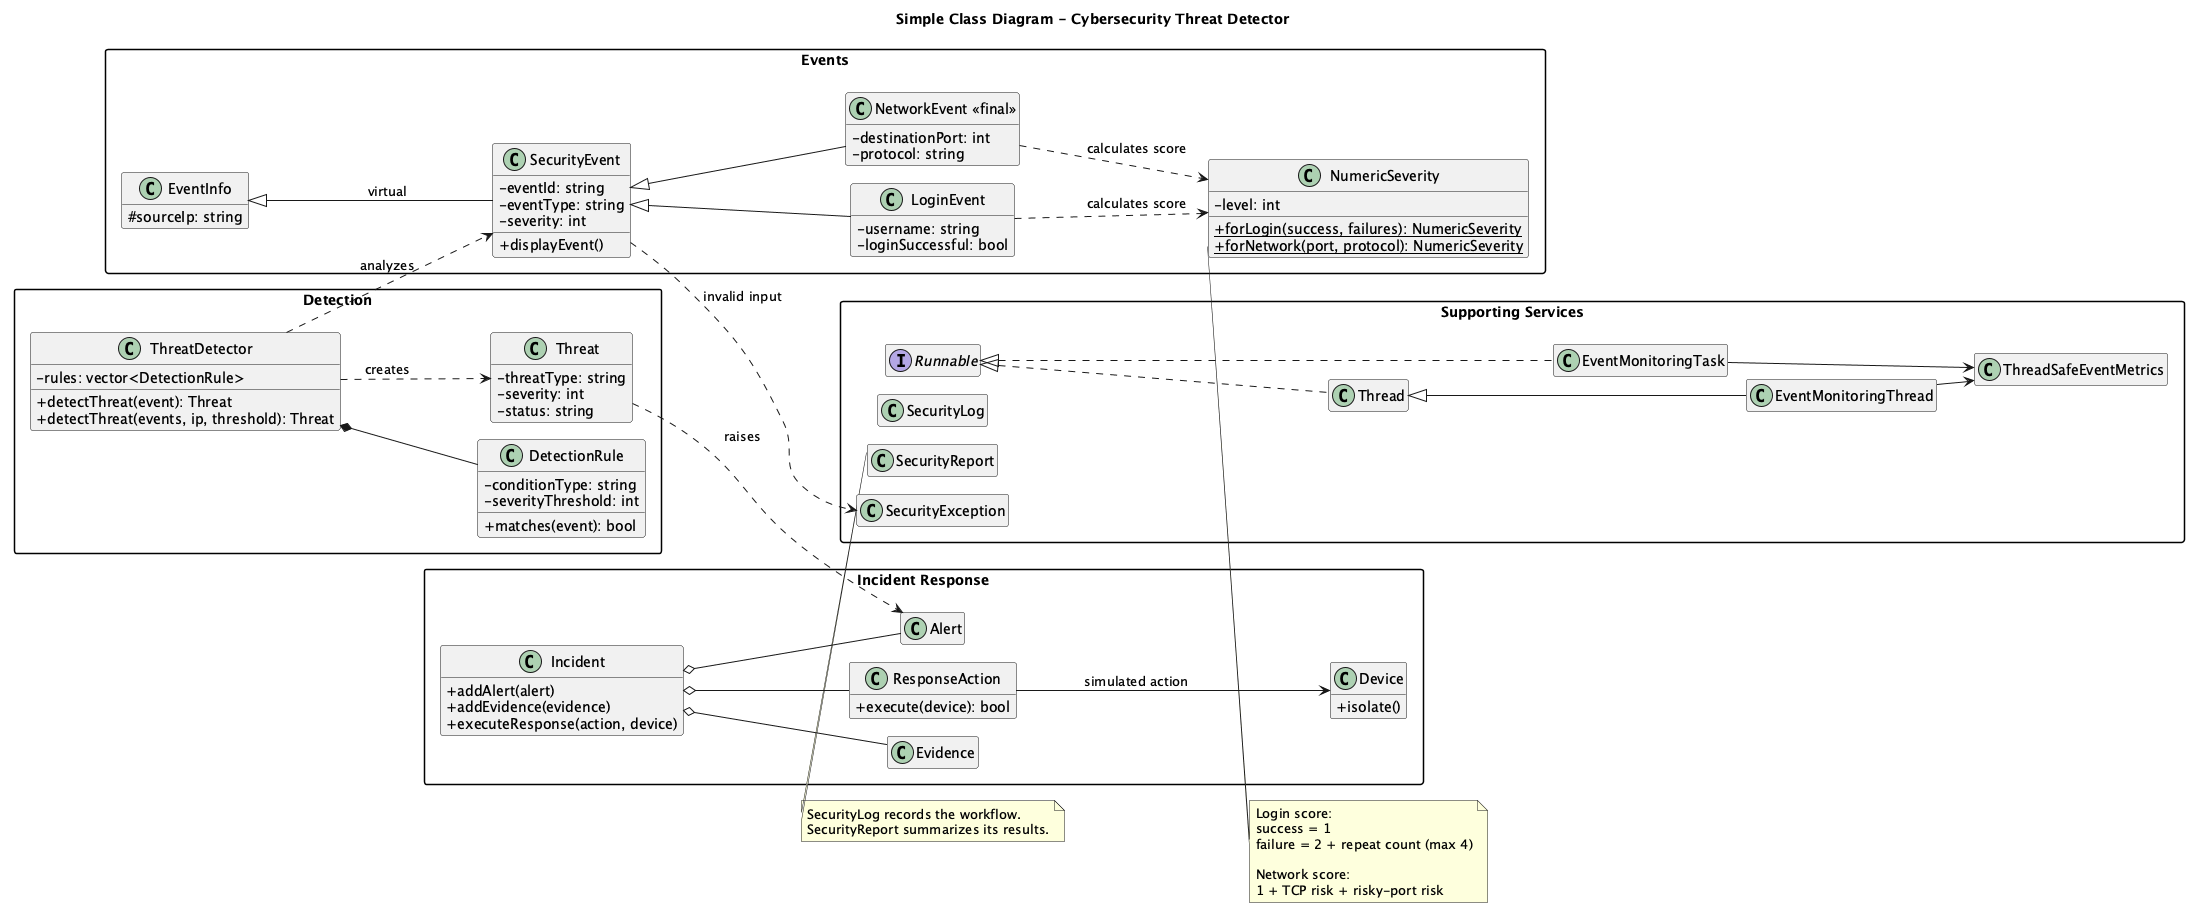
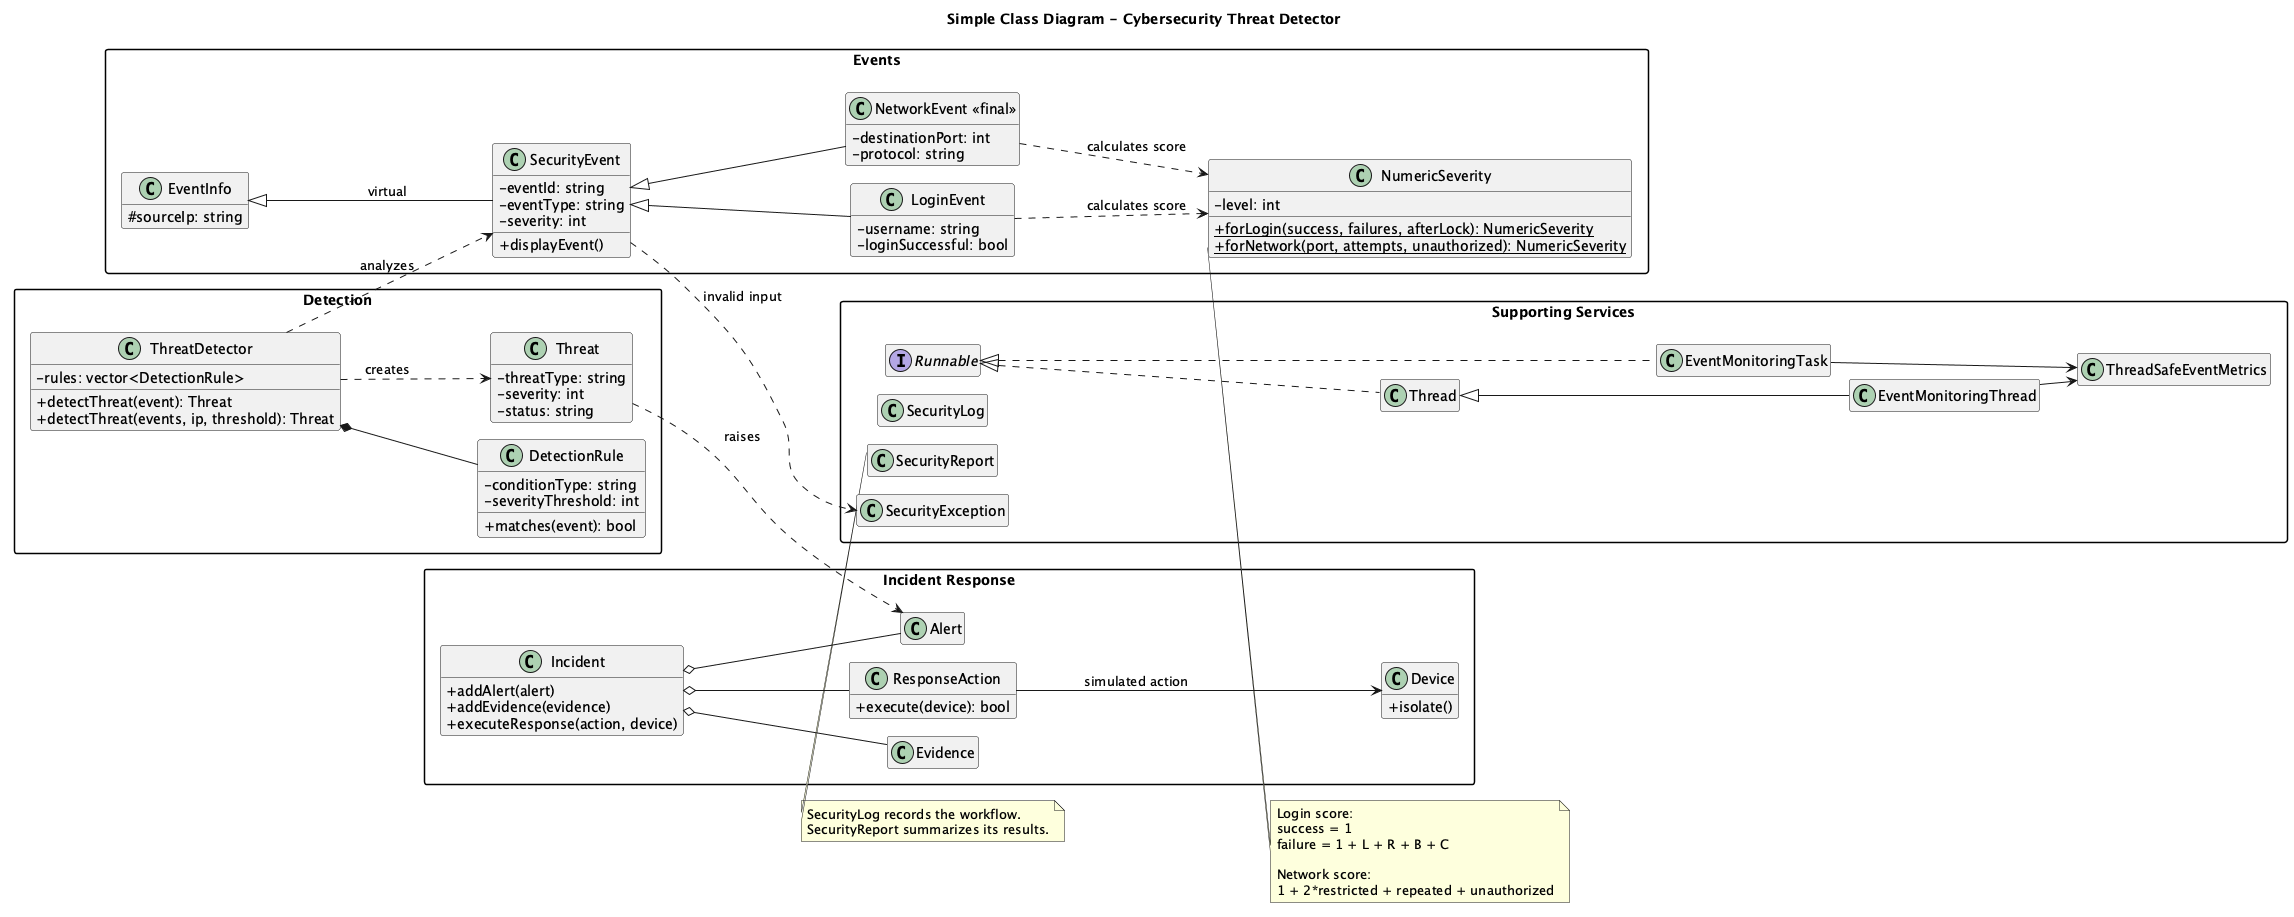
Implement behavior-based login and network severity formulas

diff --git a/frontend/index.html b/frontend/index.html
@@ -317,9 +317,11 @@
           </div>
         </fieldset>
         <div class="field">
-          <label for="failedAttempts">Recent failed attempts</label>
+          <label for="failedAttempts">Failed attempts in simulated last 5 minutes</label>
           <input id="failedAttempts" name="failedAttempts" type="number" min="1" max="10" value="3" required inputmode="numeric" />
         </div>
+        <fieldset><legend>Account lock</legend><div class="radio-row"><label><input type="checkbox" name="afterLock" /> Attempt continued after account lock (requires 5+ failures)</label></div></fieldset>
+        <p class="portal-help">Login score = 1 + failed login + 3+ failures + 5+ failures + attempt after lock. Each true condition adds 1. Successful login = 1. Counts describe the same username and source IP in a simulated 5-minute window.</p>
       </div>
 
       <div id="networkFields" class="portal-fields" hidden>
@@ -334,7 +336,9 @@
             <label><input type="radio" name="protocol" value="UDP" disabled /> UDP</label>
           </div>
         </fieldset>
-        <p class="portal-help"><strong>Network guide:</strong> TCP is reliable and connection-based; UDP is faster and connectionless. Ports <strong>22 (SSH)</strong> and <strong>3389 (RDP)</strong> are risky in this simulation. Ports 80 (HTTP) and 443 (HTTPS) are normal examples.</p>
+        <div class="field"><label for="networkAttempts">Connections in simulated last 5 minutes</label><input id="networkAttempts" name="attempts" type="number" min="1" max="100" value="1" required disabled /></div>
+        <fieldset><legend>Simulated access policy</legend><div class="radio-row"><label><input type="checkbox" name="unauthorized" disabled /> Source is not permitted to access this service</label></div></fieldset>
+        <p class="portal-help">Network score = 1 + 2 × restricted port + repeated attempts + unauthorized access. Ports 22 (SSH) and 3389 (RDP) are restricted by this demo policy. Repeated = 3+ connections from the same IP to the same port in a simulated 5-minute window. TCP and UDP score equally.</p>
       </div>
 
       <div class="portal-actions">
@@ -559,6 +563,8 @@
       const failed = portalForm.elements.loginResult.value === "failed";
       portalForm.elements.failedAttempts.disabled = !failed;
       portalForm.elements.failedAttempts.required = failed;
+      portalForm.elements.afterLock.disabled = !failed;
+      if (!failed) portalForm.elements.afterLock.checked = false;
     }
   }
   portalForm.addEventListener("change", (event) => {
@@ -570,6 +576,8 @@
       const attempts = document.getElementById("failedAttempts");
       attempts.disabled = event.target.value === "success";
       attempts.required = event.target.value !== "success";
+      portalForm.elements.afterLock.disabled = event.target.value === "success";
+      if (event.target.value === "success") portalForm.elements.afterLock.checked = false;
     }
   });
 
@@ -586,9 +594,12 @@
       payload.username = values.get("username");
       payload.result = values.get("loginResult");
       payload.failedAttempts = payload.result === "failed" ? Number(values.get("failedAttempts")) : 0;
+      payload.afterLock = values.has("afterLock");
     } else {
       payload.port = Number(values.get("port"));
       payload.protocol = values.get("protocol");
+      payload.attempts = Number(values.get("attempts"));
+      payload.unauthorized = values.has("unauthorized");
     }
 
     portalSubmit.disabled = true;

diff --git a/tests/smoke_test.py b/tests/smoke_test.py
@@ -41,9 +41,10 @@ with tempfile.TemporaryDirectory() as directory:
     assert "UNKNOWN_ACTION" in outputs["response-failure"]
     assert "Synchronized events processed: 8" in outputs["high-volume"]
     assert "Severity Score  : 3 (calculated)" in outputs["full-demo"]
-    assert "Severity Score  : 4 (calculated)" in outputs["full-demo"]
-    assert "Risk Level  : HIGH (4)" in outputs["full-demo"]
-    assert "Risk Level  : CRITICAL (5)" in outputs["high-volume"]
+    assert "Severity Score  : 5 (calculated)" in outputs["full-demo"]
+    assert "Risk Level  : MEDIUM (3)" in outputs["full-demo"]
+    assert "Highest severity score  : 5" in outputs["full-demo"]
+    assert "Risk Level  : HIGH (4)" in outputs["high-volume"]
 
     invalid = subprocess.run(
         [binary, "not-allowed"], cwd=ROOT, capture_output=True, text=True
@@ -62,9 +63,9 @@ with tempfile.TemporaryDirectory() as directory:
     assert portal_login.returncode == 0, portal_login.stderr
     assert "Portal event accepted: incorrect login" in portal_login.stdout
     assert "Synchronized events processed: 1" in portal_login.stdout
-    assert "Severity Score  : 4 (calculated)" in portal_login.stdout
+    assert "Severity Score  : 3 (calculated)" in portal_login.stdout
     assert "Threats detected        : 1" in portal_login.stdout
-    assert "Highest severity score  : 4" in portal_login.stdout
+    assert "Highest severity score  : 3" in portal_login.stdout
 
     portal_success = subprocess.run(
         [
@@ -97,5 +98,23 @@ with tempfile.TemporaryDirectory() as directory:
     assert "Portal event accepted: UDP connection to port 443" in portal_network.stdout
     assert "Severity Score  : 1 (calculated)" in portal_network.stdout
     assert "Highest severity score  : 1" in portal_network.stdout
+
+    # All login thresholds and network flag combinations; protocols must score equally.
+    for failures, locked, expected in [(1,0,2),(2,0,2),(3,0,3),(4,0,3),(5,0,4),(10,0,4),(5,1,5)]:
+        result = subprocess.run(
+            [binary, "portal-event", "portal-login", "admin", "failed", str(failures), "203.0.113.50", str(locked)],
+            capture_output=True, text=True, check=True,
+        )
+        assert f"Highest severity score  : {expected}" in result.stdout
+    for port in (22, 3389, 443):
+        for attempts in (1, 3):
+            for unauthorized in (0, 1):
+                expected = 1 + 2 * (port in (22,3389)) + (attempts >= 3) + unauthorized
+                for protocol in ("TCP", "UDP"):
+                    result = subprocess.run(
+                        [binary, "portal-event", "portal-network", str(port), protocol, "203.0.113.50", str(attempts), str(unauthorized)],
+                        capture_output=True, text=True, check=True,
+                    )
+                    assert f"Highest severity score  : {expected}" in result.stdout
 
 print("All public scenarios passed.")

diff --git a/frontend/server.py b/frontend/server.py
@@ -252,24 +252,35 @@ class Handler(BaseHTTPRequestHandler):
                 username = str(data.get("username", "")).strip()
                 result = data.get("result")
                 failures = int(data.get("failedAttempts", 0))
+                after_lock = data.get("afterLock", False)
+                if type(after_lock) is not bool:
+                    raise ValueError("After-lock flag must be true or false.")
                 if not username or len(username) > 32 or not all(
                     char.isalnum() or char in "._-" for char in username
                 ):
                     raise ValueError("Username may use letters, numbers, dot, underscore, or hyphen.")
                 if result not in ("success", "failed"):
                     raise ValueError("Login result must be success or failed.")
-                if not 0 <= failures <= 10:
-                    raise ValueError("Failed attempts must be between 0 and 10.")
-                args = ["portal-login", username, result, str(failures), source_ip]
+                if not (0 if result == "success" else 1) <= failures <= 10:
+                    raise ValueError("A failed login requires 1–10 attempts.")
+                if result == "success" and after_lock:
+                    raise ValueError("A successful login cannot be an attempt after account lock.")
+                if after_lock and failures < 5:
+                    raise ValueError("The simulated account locks after 5 failures.")
+                args = ["portal-login", username, result, str(failures), source_ip, str(int(after_lock))]
                 label = f"{'Successful' if result == 'success' else 'Incorrect'} login: {username}"
             elif event_type == "network":
                 port = int(data.get("port", 0))
                 protocol = str(data.get("protocol", "")).upper()
+                attempts = int(data.get("attempts", 1))
+                unauthorized = data.get("unauthorized", False)
+                if not 1 <= attempts <= 100 or type(unauthorized) is not bool:
+                    raise ValueError("Use 1–100 network attempts and a boolean unauthorized flag.")
                 if not 1 <= port <= 65535:
                     raise ValueError("Port must be between 1 and 65535.")
                 if protocol not in ("TCP", "UDP"):
                     raise ValueError("Protocol must be TCP or UDP.")
-                args = ["portal-network", str(port), protocol, source_ip]
+                args = ["portal-network", str(port), protocol, source_ip, str(attempts), str(int(unauthorized))]
                 label = f"{protocol} network event: port {port}"
             else:
                 raise ValueError("Event type must be login or network.")

diff --git a/src/main.cpp b/src/main.cpp
@@ -75,8 +75,8 @@ int main(int argc, char* argv[])
     printSection("1. Collect and validate events");
     authServer.displayDevice();
     cout << "Severity scoring is automatic: successful login=1; "
-         << "failed login=2+repeat count (max 4); "
-         << "network=1+TCP risk+risky-port risk.\n";
+         << "login=1+failed+3-failures+5-failures+after-lock; "
+         << "network=1+2*restricted-port+repeated+unauthorized.\n";
 
     // unique_ptr owns each object; raw base pointers provide a simple
     // polymorphic view for rules and detectors.
@@ -110,12 +110,12 @@ int main(int argc, char* argv[])
             "jsmith", true, 0));
         addEvent(make_unique<NetworkEvent>(
             "EVT-8891", "2026-08-25 10:15:40", "203.0.113.19",
-            22, "TCP"));
+            22, "TCP", 3, true));
     }
 
     if (portalEventType == "portal-login")
     {
-        if (argc != 7)
+        if (argc != 7 && argc != 8)
         {
             cerr << "Portal login requires username, result, failure count, and source IP.\n";
             return 2;
@@ -124,21 +124,23 @@ int main(int argc, char* argv[])
         const int recentFailures = stoi(argv[5]);
         addEvent(make_unique<LoginEvent>(
             "EVT-PORTAL", "2026-11-18 08:30:00", argv[6],
-            argv[3], successful, successful ? 0 : recentFailures));
+            argv[3], successful, successful ? 0 : recentFailures,
+            argc == 8 && string(argv[7]) == "1"));
         cout << "Portal event accepted: "
              << (successful ? "successful" : "incorrect")
              << " login for " << argv[3] << ".\n";
     }
     else if (portalEventType == "portal-network")
     {
-        if (argc != 6)
+        if (argc != 6 && argc != 8)
         {
             cerr << "Portal network event requires port, protocol, and source IP.\n";
             return 2;
         }
         addEvent(make_unique<NetworkEvent>(
             "EVT-PORTAL", "2026-11-18 08:30:00", argv[5],
-            stoi(argv[3]), argv[4]));
+            stoi(argv[3]), argv[4], argc == 8 ? stoi(argv[6]) : 1,
+            argc == 8 && string(argv[7]) == "1"));
         cout << "Portal event accepted: " << argv[4]
              << " connection to port " << argv[3] << ".\n";
     }

diff --git a/src/TypeCasting.cpp b/src/TypeCasting.cpp
@@ -3,7 +3,6 @@
 #include "ExceptionHandling.h"
 #include "SecurityEvent.h"
 
-#include <algorithm>
 
 namespace TypeCasting {
 
@@ -17,25 +16,24 @@ NumericSeverity::NumericSeverity(int value) : level(value) {
 
 NumericSeverity NumericSeverity::forLogin(
     bool loginSuccessful,
-    int recentFailures
+    int recentFailures,
+    bool afterLock
 ) {
     if (loginSuccessful) {
         return NumericSeverity(1);
     }
 
-    // Failed login: base 2 + repetition (1..2), capped at HIGH.
-    // The collection-level brute-force detector may later escalate to CRITICAL.
-    return NumericSeverity(std::min(4, 2 + std::max(1, recentFailures)));
+    return NumericSeverity(1 + 1 + (recentFailures >= 3)
+                           + (recentFailures >= 5) + afterLock);
 }
 
 NumericSeverity NumericSeverity::forNetwork(
     int destinationPort,
-    const std::string& protocol
+    int attempts,
+    bool unauthorized
 ) {
-    int score = 1;
-    if (protocol == "TCP") score += 1;
-    if (destinationPort == 22 || destinationPort == 3389) score += 2;
-    return NumericSeverity(std::min(5, score));
+    const bool restricted = destinationPort == 22 || destinationPort == 3389;
+    return NumericSeverity(1 + 2 * restricted + (attempts >= 3) + unauthorized);
 }
 
 int NumericSeverity::getLevel() const {

diff --git a/src/LoginEvent.cpp b/src/LoginEvent.cpp
@@ -10,7 +10,8 @@ LoginEvent::LoginEvent(
     string ip,
     string user,
     bool success,
-    int recentFailures
+    int recentFailures,
+    bool afterLock
 )
     // Virtual base EventInfo is listed first because it is always
     // constructed first; SecurityEvent then forwards the same ip.
@@ -21,7 +22,7 @@ LoginEvent::LoginEvent(
           time,
           ip,
           TypeCasting::NumericSeverity::forLogin(
-              success, recentFailures).getLevel()
+              success, recentFailures, afterLock).getLevel()
       )
 {
     // --------------------------------------------------------
@@ -35,7 +36,9 @@ LoginEvent::LoginEvent(
 
     // Build a short simulated raw description for the report/log.
     rawData = "Login attempt for user '" + user + "' from " + sourceIp
-              + (success ? " (SUCCESS)" : " (FAILED)");
+              + (success ? " (SUCCESS)" : " (FAILED)")
+              + "; failures in simulated 5-minute window=" + to_string(recentFailures)
+              + "; after lock=" + (afterLock ? "yes" : "no");
 }
 
 void LoginEvent::displayEvent() const

diff --git a/src/NetworkEvent.cpp b/src/NetworkEvent.cpp
@@ -9,7 +9,9 @@ NetworkEvent::NetworkEvent(
     string time,
     string ip,
     int port,
-    string proto
+    string proto,
+    int attempts,
+    bool unauthorized
 )
     // Virtual base EventInfo is listed first because it is always
     // constructed first; SecurityEvent then forwards the same ip.
@@ -19,14 +21,16 @@ NetworkEvent::NetworkEvent(
           "NETWORK_EVENT",
           time,
           ip,
-          TypeCasting::NumericSeverity::forNetwork(port, proto).getLevel()
+          TypeCasting::NumericSeverity::forNetwork(port, attempts, unauthorized).getLevel()
       )
 {
     destinationPort = port;
     protocol = proto;
 
     rawData = "Network connection to port " + to_string(port)
-              + " using " + proto;
+              + " using " + proto
+              + "; attempts in simulated 5-minute window=" + to_string(attempts)
+              + "; unauthorized=" + (unauthorized ? "yes" : "no");
 }
 
 void NetworkEvent::displayEvent() const

diff --git a/src/ThreatDetector.cpp b/src/ThreatDetector.cpp
@@ -1,6 +1,7 @@
 #include "ThreatDetector.h"
 #include "LoginEvent.h"
 #include "NetworkEvent.h"
+#include "TypeCasting.h"
 #include <iostream>
 
 using namespace std;
@@ -143,16 +144,8 @@ Threat ThreatDetector::detectThreat(
         cout << "  " << failures << " failed logins detected - "
              << "brute-force pattern confirmed." << endl;
 
-        // Multiple failures escalate the severity to CRITICAL (5).
-        int sev = 5;
-        if (failures >= threshold * 2)
-        {
-            sev = 5;   // CRITICAL
-        }
-        else
-        {
-            sev = 4;   // HIGH
-        }
+        // Reuse login scoring: brute force is repeated failed login activity.
+        int sev = TypeCasting::NumericSeverity::forLogin(false, failures).getLevel();
 
         return Threat(
             "THREAT-" + to_string(threatCounter),

diff --git a/src/TypeCasting.h b/src/TypeCasting.h
@@ -14,10 +14,11 @@ private:
 
 public:
     NumericSeverity(int value);
-    static NumericSeverity forLogin(bool loginSuccessful, int recentFailures);
+    static NumericSeverity forLogin(bool loginSuccessful, int recentFailures, bool afterLock = false);
     static NumericSeverity forNetwork(
         int destinationPort,
-        const std::string& protocol
+        int attempts = 1,
+        bool unauthorized = false
     );
     int getLevel() const;
     operator int() const;

diff --git a/src/NetworkEvent.h b/src/NetworkEvent.h
@@ -33,7 +33,9 @@ public:
         string time,
         string ip,
         int port,
-        string proto
+        string proto,
+        int attempts = 1,
+        bool unauthorized = false
     );
 
     void displayEvent() const override;

diff --git a/src/LoginEvent.h b/src/LoginEvent.h
@@ -35,7 +35,8 @@ public:
         string ip,
         string user,
         bool success,
-        int recentFailures
+        int recentFailures,
+        bool afterLock = false
     );
 
     // Overrides SecurityEvent::displayEvent()

diff --git a/README.md b/README.md
@@ -81,11 +81,14 @@ Normal event constructors no longer receive a manually selected severity.
 `NumericSeverity` calculates it from observable event facts:
 
 - Successful login: `1`.
-- Failed login: `2 + recent failure count`, capped at `4`.
-- Network event: base `1`, plus `1` for TCP and `2` for risky ports `22` or
-  `3389`, capped at `5`.
-- The pattern detector escalates 3-5 repeated failures to `4` (HIGH) and 6+
-  failures to `5` (CRITICAL).
+- Login: `1 + failed + (failures >= 3) + (failures >= 5) + afterLock`.
+  Successful login always scores 1. The simulated lock starts at 5 failures.
+- Network: `1 + 2 * restrictedPort + (attempts >= 3) + unauthorized`.
+  Ports 22/3389 are restricted by the demo policy. TCP and UDP score equally.
+- Each condition is 1 if true, otherwise 0. Counts are supplied simulated
+  observations for the same source and user/port within 5 minutes; the portal
+  does not maintain a rolling traffic history. Unauthorized is an explicit
+  simulated policy decision. Brute-force detection reuses the login formula.
 
 The deliberately invalid severity `9` exists only in the validation-error
 scenario to demonstrate the custom exception hierarchy.
